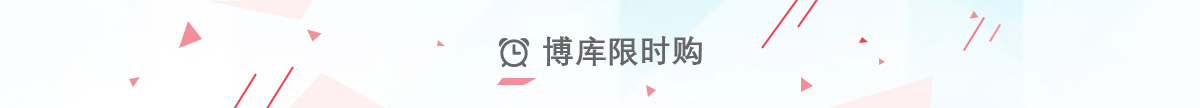
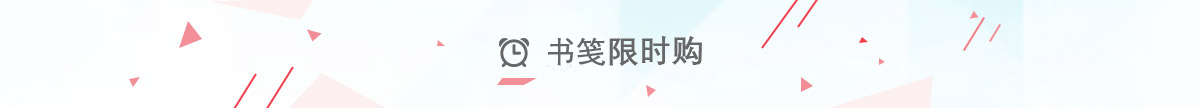
新增注册页面

Changed region(s): [[0.4317, 0.3333, 0.5242, 0.6111]]

diff --git a/src/pages/register/components/RegHeader.vue b/src/pages/register/components/RegHeader.vue
@@ -1,0 +1,169 @@
+<template>
+  <div class="tonglan">
+    <div class="banxin">
+      <div class="top">
+        <div class="header-left">
+          <router-link to="/login">
+            <span>登陆</span>
+          </router-link>|
+          <router-link to="/register">
+            <span>免费注册</span>
+          </router-link>
+          <img src="~@/assets/images/phone.png" alt="phone">
+          <span>下载书笺APP</span>
+        </div>
+
+        <ul class="header-right">
+          <li class="icon" @mouseenter="show" @mouseleave="hidden">
+            我的书笺
+            <i></i>
+            <ol class="item" v-show="ifshow">
+              <li>我的订单</li>
+              <li>我的优惠券</li>
+              <li>我的收藏</li>
+              <li>我的收入</li>
+              <li>官方消息</li>
+            </ol>
+          </li>
+          <span>|</span>
+          <li>收藏夹</li>
+          <span>|</span>
+          <li>店铺管理</li>
+          <span>|</span>
+          <li>联系客服</li>
+        </ul>
+      </div>
+    </div>
+    <div class="logo">
+      <div class="banxin">
+        <router-link to="/">
+          <img src="~@/assets/images/login/logo.png" alt>
+        </router-link>
+      </div>
+    </div>
+  </div>
+</template>
+
+<script>
+export default {
+  name: "RegHeader",
+  data() {
+    return {
+      ifshow: false
+    };
+  },
+  methods: {
+    show() {
+      this.ifshow = true;
+    },
+    hidden() {
+      this.ifshow = false;
+    }
+  }
+};
+</script>
+
+
+<style lang="less" scoped>
+@import "~@/assets/style/main.less";
+.tonglan {
+  line-height: 30px;
+  font-size: 12px;
+  color: #666;
+  background-color: #f5f5f5;
+  .banxin {
+    .top {
+      width: 100%;
+      height: 30px;
+
+      .header-left {
+        float: left;
+        span {
+          color: #666;
+          margin: 0 5px;
+          &:hover {
+            color: #2db4ea;
+          }
+        }
+        img {
+          width: 18px;
+          height: 18px;
+          margin: 0px 4px 0px 30px;
+        }
+      }
+      .header-right {
+        float: right;
+        span {
+          float: left;
+        }
+        li {
+          cursor: pointer;
+          padding: 0 20px;
+          float: left;
+          margin: 0 5px;
+          &:hover {
+            color: #2db4ea;
+          }
+        }
+
+        li.icon {
+          width: 68px;
+          padding: 0 10px;
+          z-index: 999;
+          position: relative;
+          border: 1px solid transparent;
+          i {
+            width: 6px;
+            height: 6px;
+            border-right: 2px solid #666;
+            border-bottom: 2px solid #666;
+            transform: rotate(45deg);
+            position: absolute;
+            top: 50%;
+            right: 10px;
+            margin-top: -6px;
+          }
+          &:hover {
+            background-color: #fff;
+            border: 1px solid #ccc;
+            border-bottom: none;
+            i {
+              transform: rotate(-135deg);
+              margin-top: -2px;
+            }
+          }
+          .item {
+            position: absolute;
+            left: -1px;
+            background-color: #fff;
+            border: 1px solid #ccc;
+            border-top: none;
+            li {
+              padding: 0 5px;
+              width: 68px;
+              height: 30px;
+              color: #666;
+              &:hover {
+                color: #2db4ea;
+              }
+            }
+          }
+        }
+      }
+    }
+  }
+}
+.logo {
+  width: 100%;
+  background-color: #fff;
+  .banxin {
+    border-bottom: 1px solid #ccc;
+    img {
+      height: 100px;
+      cursor: pointer;
+      margin: 15px 0;
+    }
+  }
+}
+</style>
+

diff --git a/src/pages/register/components/RegBody.vue b/src/pages/register/components/RegBody.vue
@@ -1,0 +1,143 @@
+<template>
+  <div class="tonglan">
+    <div class="banxin">
+      <h3>用户注册</h3>
+      <p class="info-box">
+        <span class="info">1.填写注册信息</span>
+        <span class="succ">2.注册成功</span>
+      </p>
+      <ul class="box">
+        <li>
+          <label for="phone-num">手机号:</label>
+          <input type="text" id="phone-num" placeholder="请输入手机号码">
+        </li>
+        <li>
+          <label for="gra-ver-code">图形验证码:</label>
+          <input type="text" id="gra-ver-code" placeholder="请输入图形验证码">
+          <img src="~@/assets/images/register/authcode.jpg" alt="">
+          <a href="#">看不清,换一张</a>
+        </li>
+        <li>
+          <label for="ver-code">验证码:</label>
+          <input type="text" id="ver-code" placeholder="请输入手机验证码">
+          <button class="get-code">获取验证码</button>
+        </li>
+        <li>
+          <label for="password">密码:</label>
+          <input type="text" id="password" placeholder="请输入密码">
+        </li>
+        <li>
+          <button class="reg-btn">注册</button>
+        </li>
+        <li>
+          <a href="#" class="goto-login">已有账号 前往登陆</a>
+        </li>
+      </ul>
+    </div>
+  </div>
+</template>
+
+<script>
+export default {
+  name: "RegBody"
+}
+</script>
+
+<style lang="less" scoped>
+  .tonglan {
+    .banxin {
+      h3 {
+        font-size: 18px;
+        font-weight: bold;
+        margin: 15px 0 10px;
+      }
+      p.info-box {
+        &::after {
+          content:'';
+          display: block;
+          clear: both;
+        }
+        .info {
+          width: 50%;
+          height: 30px;
+          line-height: 30px;
+          text-align: center;
+          color: #fff;
+          float: left;
+          background-color: #2db4ea;
+        }
+        .succ {
+          width: 50%;
+          height: 30px;
+          line-height: 30px;
+          text-align: center;
+          color: #000;
+          float: left;
+          background-color: #ccc;          
+        }
+      }
+      ul.box {
+        width: 650px;
+        margin: 30px auto;
+  
+        li{
+          height: 30px;
+          margin: 20px 0;
+          label {
+            width: 100px;
+            height: 100%;
+            float: left;
+            line-height: 30px;
+            text-align: right;
+          }
+          input {
+            border: 1px solid #ccc;
+            float: left;
+            height: 100%;
+            margin: 0 10px;
+            padding: 0 5px;
+            &::placeholder {
+              color: #ccc;
+            }
+          }
+          img {
+            height: 30px;
+            margin: 0 10px;
+          }
+          a {
+            line-height: 30px;
+          }
+          .get-code {
+            width: 100px;
+            height: 100%;
+            background-color: #2db4ea;
+            color: #fff;
+            text-align: center;
+            line-height: 30px;
+            cursor: pointer;
+          }
+          button.reg-btn {
+            width: 350px;
+            height: 40px;
+            background-color: #2db4ea;
+            color: #fff;
+            font-weight: bold;
+            font-size: 17px;
+            border-radius: 5px;
+            margin: 0 30px;
+            cursor: pointer;
+          }
+          .goto-login {
+            margin-left: 30px;
+          }
+          #phone-num {
+            width: 300px;
+          }
+          #password {
+            width: 300px;
+          }
+        }
+      }
+    }
+  }
+</style>

diff --git a/src/pages/register/Register.vue b/src/pages/register/Register.vue
@@ -1,11 +1,20 @@
 <template>
-  <div>12323</div>
+  <div>
+    <reg-header></reg-header>
+    <reg-body></reg-body>
+  </div>
 </template>
 
-
 <script>
+import RegHeader from "./components/RegHeader";
+import RegBody from "./components/RegBody";
+
 export default {
-  name: "Register"
+  name: "Register",
+  components: {
+    RegHeader,
+    RegBody
+  }
 }
 </script>
 

diff --git a/src/pages/public-components/Header.vue b/src/pages/public-components/Header.vue
@@ -37,7 +37,10 @@
 
     <div class="center">
       <div class="banxin">
-        <img src="~@/assets/images/logo.png" alt="logo">
+        <router-link to="/">
+          <img src="~@/assets/images/logo.png" alt="logo">
+        </router-link>
+
         <div class="search">
           <input type="text" placeholder="余华">
           <button>

diff --git a/src/pages/login/components/LoginBody.vue b/src/pages/login/components/LoginBody.vue
@@ -134,7 +134,7 @@ export default {
       .login-way {
         margin-top: 20px;
         a {
-          margin-right: 20px;
+          margin-right: 18px;
           cursor: pointer;
           color: #333;
           img {
